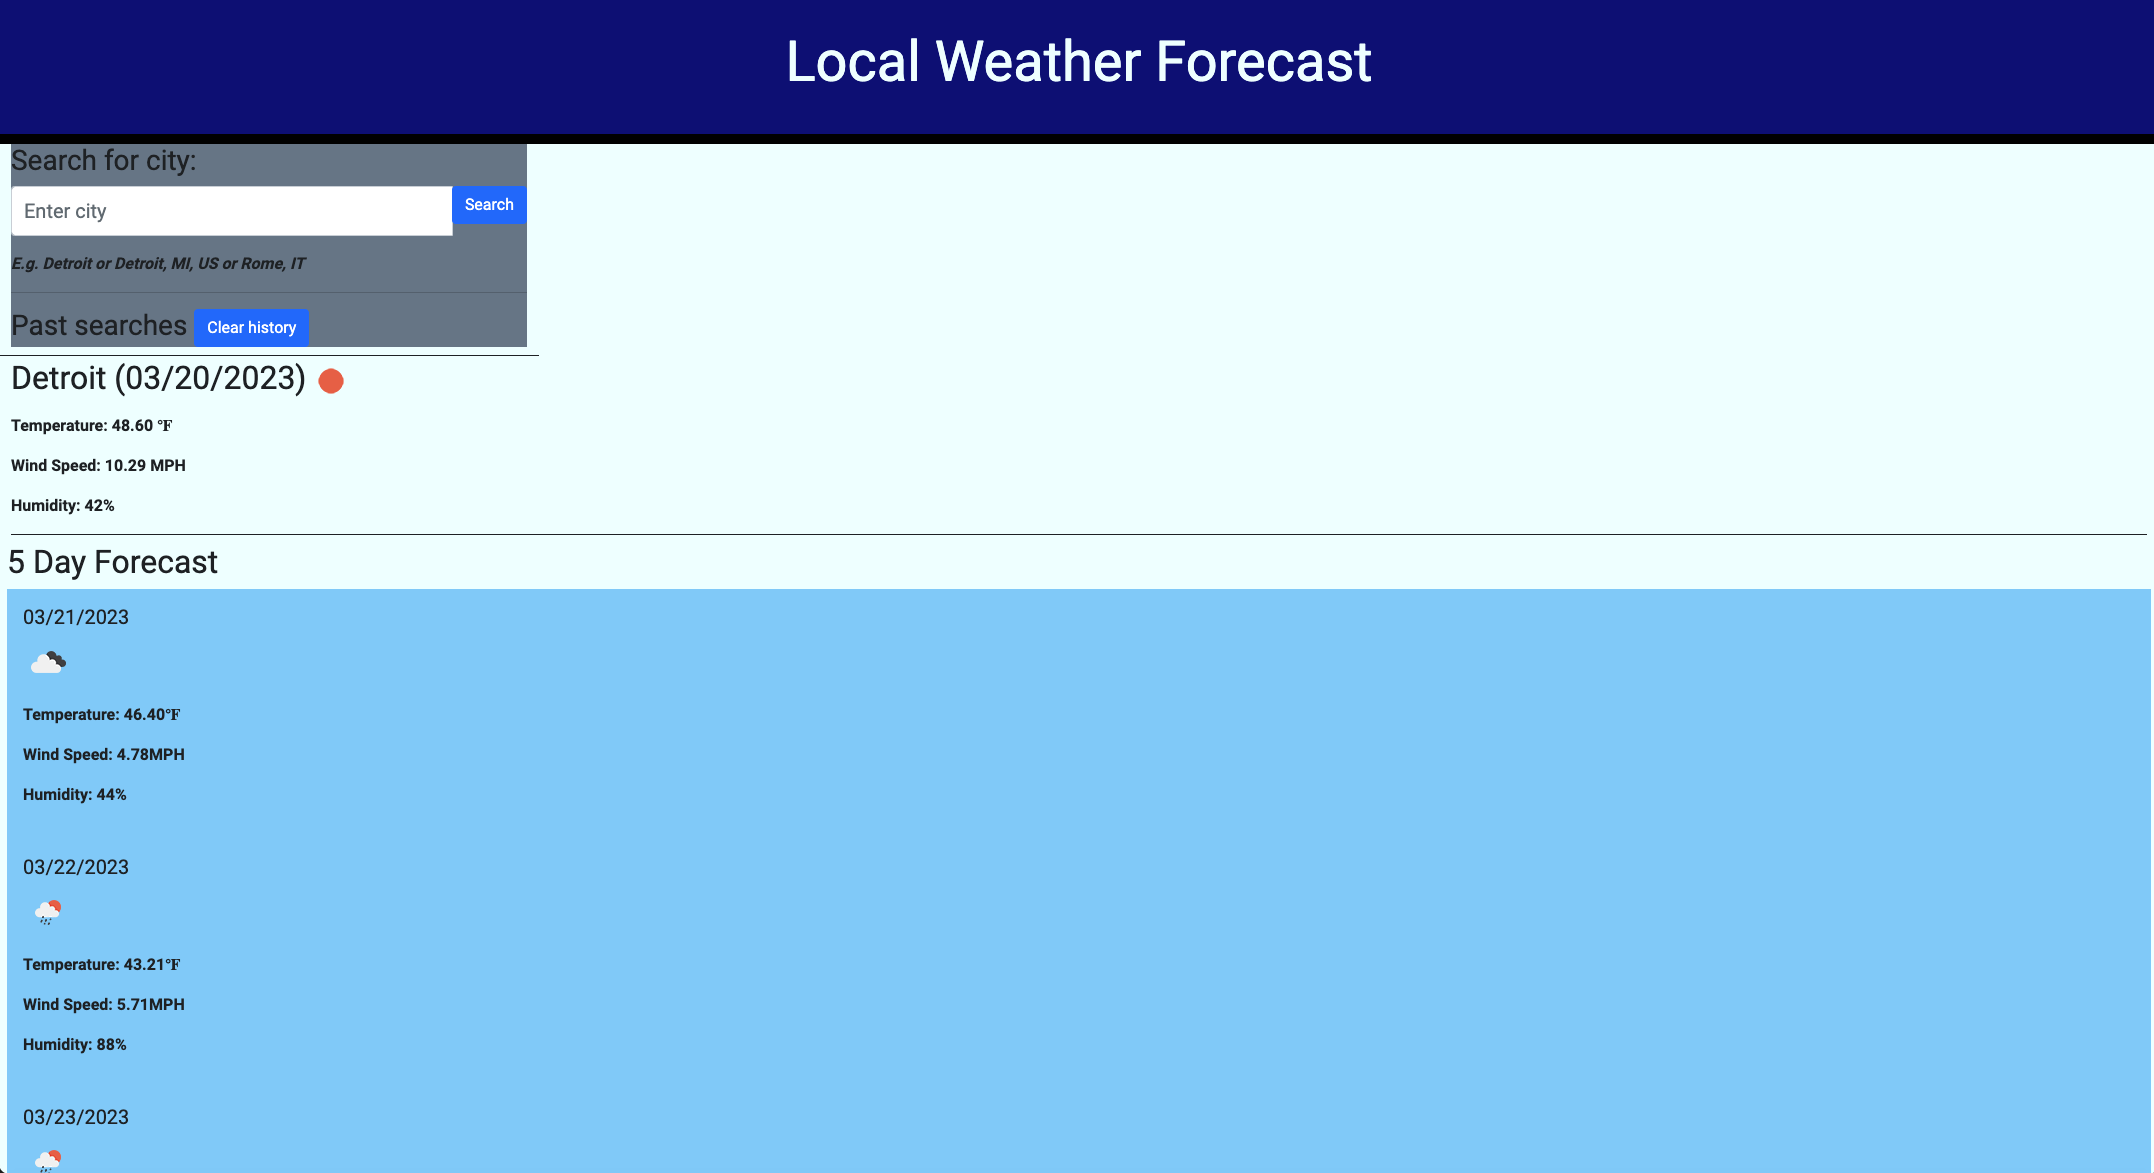
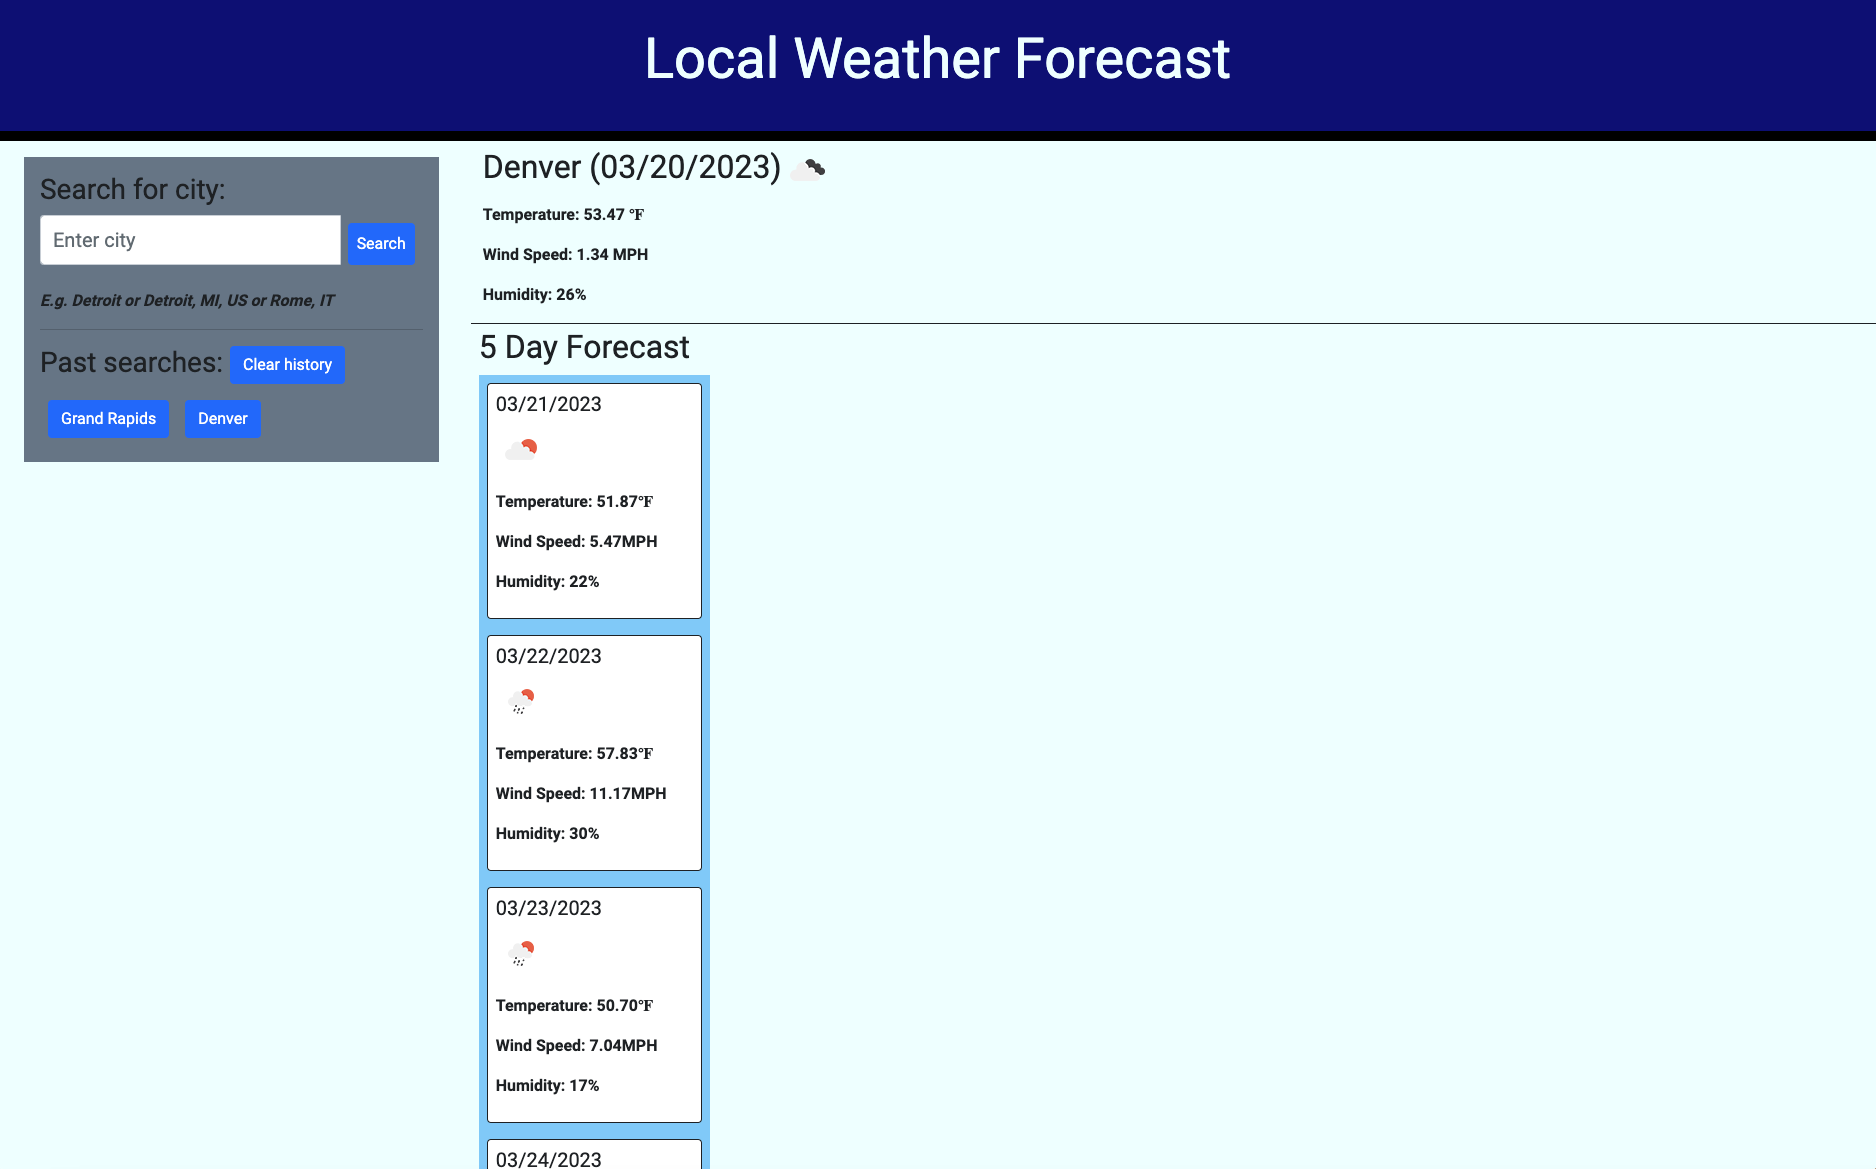
added new screenshot reflecting updated changes

diff --git a/index.html b/index.html
@@ -24,7 +24,7 @@
         <div class="row">
             <div class="col-md-3 aside-col border-right border-bottom border-dark">
                 <!-- Div for search area -->
-                <aside class="pr-4">
+                <aside class="pr-4 m-3 p-3">
                     <!-- Search header -->
                     <h3>Search for city:</h3>
                     <!-- Search box and button -->
@@ -32,7 +32,7 @@
                         <input id="city" type="text" class="form-control" placeholder="Enter city"
                             aria-label="Search city box" aria-describedby="button-search">
                         <div class="input-group-append">
-                            <button class="btn btn-primary" type="submit" id="searchBtn"
+                            <button class="btn btn-primary p-2 m-2" type="submit" id="searchBtn"
                                 aria-label="Submit search button" title="Submit search">Search<i
                                     class="fas fa-search-location fa-2x"></i></button>
                         </div>
@@ -40,7 +40,7 @@
                     <p><em>E.g. Detroit or Detroit, MI, US or Rome, IT</em></p>
                     <hr>
                     <!-- Div for previously searched cities -->
-                    <h3>Past searches <button class="btn btn-primary" id="clear-history" title="Clear search results"
+                    <h3>Past searches: <button class="btn btn-primary" id="clear-history" title="Clear search results"
                             aria-label="Clear search results button">Clear history<i class="fa fa-trash"></i></button>
                     </h3>
                     <div id="search-history">
@@ -52,7 +52,7 @@
             <div class="col-md-9">
                 <main>
                     <div class="row">
-                        <div class="col-12 border-bottom border-left border-bottom border-dark current">
+                        <div class="col-12 m-1 border-bottom border-left border-bottom border-dark current">
                             <h2 id="city-date"><img id="city-icon" src="" alt=""></h2>
                             <p id="city-temp"></p>
                             <p id="city-wind"></p>
@@ -60,19 +60,19 @@
                         </div>
                     </div>
                 <!-- 5 Day Forecast -->
-                    <div class="row mb-5">
-                        <!-- <div class="col-12 border-left border-bottom border-dark p-2 mb-5 forecast"> -->
+                    <div class="row">
+                        <div class="col-md-12">
                             <h2>5 Day Forecast</h2>
                             <div>
-                                <div class="day p-2">
+                                <div class="day col-2 p-2">
                                 </div>
-                                <div class="day p-2">
+                                <div class="day col-2 p-2">
                                 </div>
-                                <div class="day p-2">
+                                <div class="day col-2 p-2">
                                 </div>
-                                <div class="day p-2">
+                                <div class="day col-2 p-2">
                                 </div>
-                                <div class="day p-2">
+                                <div class="day col-2 p-2">
                                 </div>
                             </div>
                         </div>

diff --git a/assets/script.js b/assets/script.js
@@ -79,8 +79,7 @@ $(document).ready(function () {
                     // Humidity
                     var forecastHumidity = response.daily[day].humidity;
                     // Fill out forecast
-                    // console.log(dayStatus, forecastIcon, forecastIconURL, forecastIconDescrip, forecastTempFar, forecastWind, forecastHumidity);
-                    var newDiv = $("<div>").attr("class", "day-body border-left border-bottom border-dark p-2");
+                    var newDiv = $("<div>").attr("class", "day-body border-left border-bottom border-dark card mr-2 p-2");
                     var newDate = $("<h5>").attr("class", "day-date").text(dayStatus);
                     var newIcon = $("<p>").attr("class", "day-icon").html("<img class='weather-icon' src=" + forecastIconURL + " />");
                     var newTemp = $("<p>").attr("class", "day-temp").text(`Temperature: ` + forecastTempFar + `℉`);
